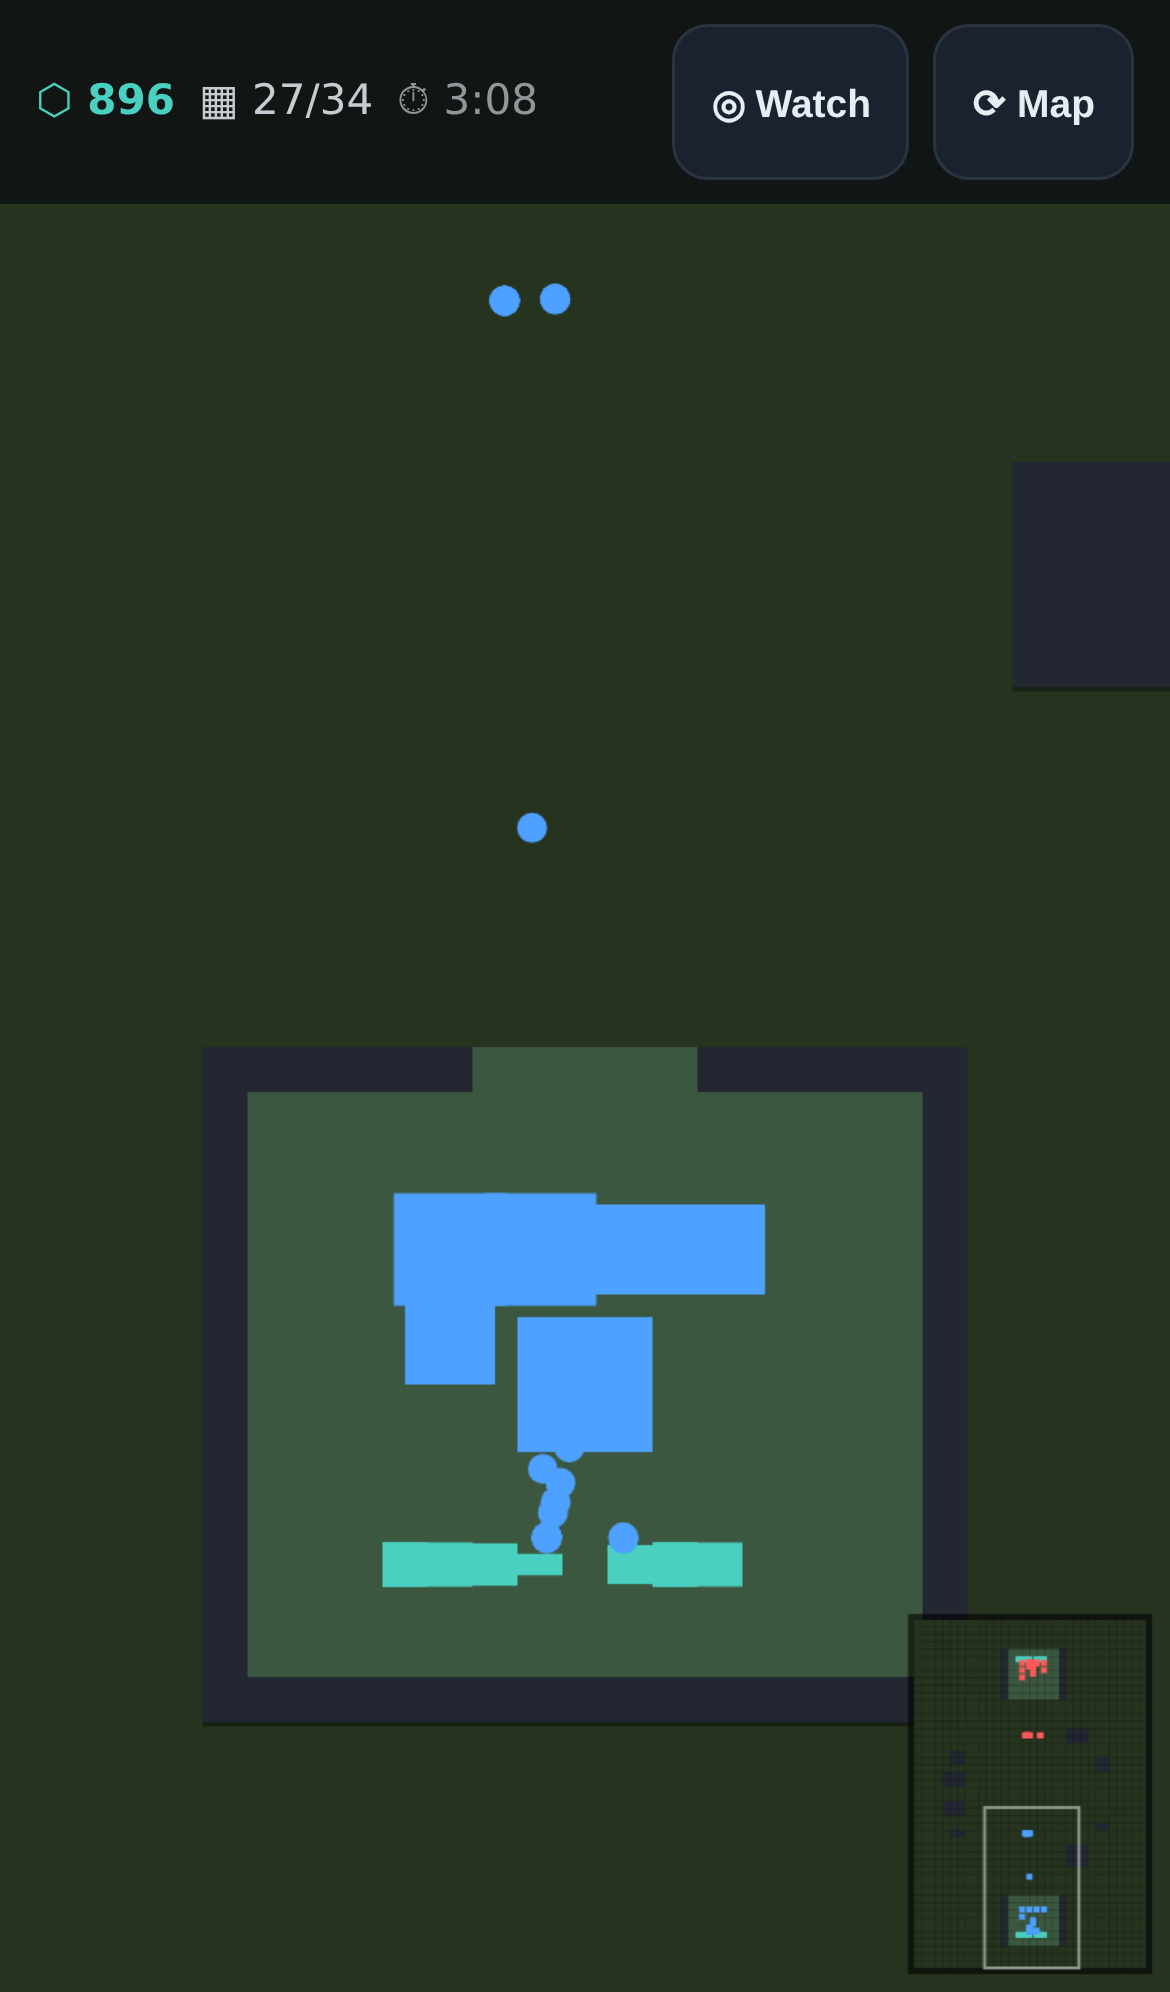
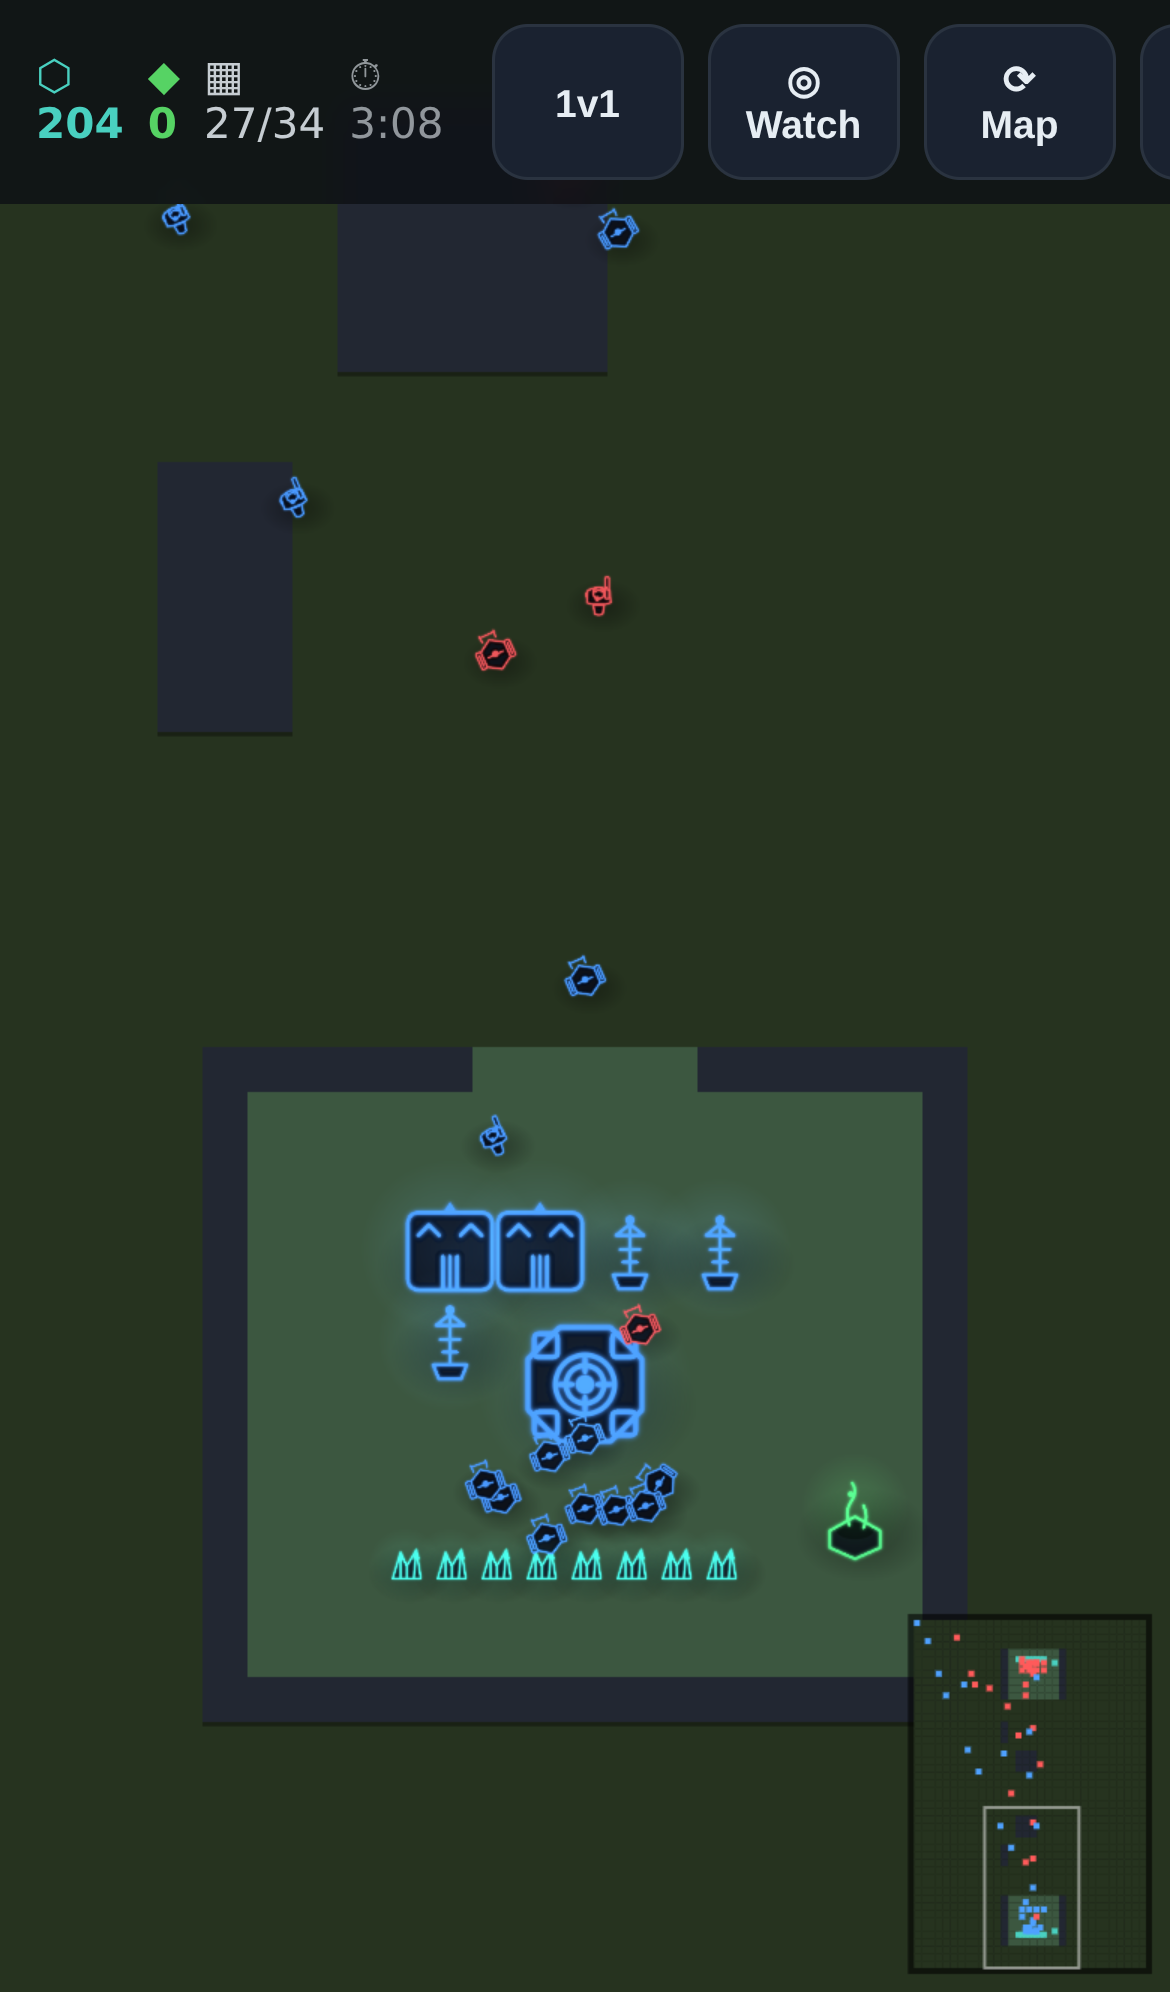
art: ship the tron sprite treatment in-engine (Terran roster)
Rewrite src/art/sprites.ts so the live WebGL renderer draws the neon "tron"
look from the codex instead of the old flat-with-baked-volume style. Each
sprite is now declared as role layers (panels / insets / lines / cores) and the
atlas body+mask SVG is generated from them:

  • body  — near-black chassis (fixed, never tinted) + neon edges/cores drawn in
            a neutral-bright color, with the bloom baked via an SVG blur so the
            edge glows in-engine.
  • mask  — white over the neon (edges + bloom + cores); chassis transparent, so
            it reads black for every player and the team color multiplies only
            the glow (assets.md §4).

Neutral minerals/geyser carry a fixed hue and no mask (never tinted). Sprite
scales/keys are preserved, so gl/renderer.ts' SPRITE_OF and footprint math are
unchanged. The full three-race roster stays checked in as the showcase
(packages/app/units.html); the engine bakes the Terran subset it has Kinds for,
and Protoss/Zerg port in when their Kinds land.

Verified: typecheck + app build pass; in-engine Playwright shots show the
team-tinted neon CC/Barracks/Depots, hex SCVs, Marines, cyan minerals and green
geyser. Refreshed the README screenshots and assets.md to match.

https://claude.ai/code/session_01H7uHsf3zaSRFHF14MfB3ev

diff --git a/packages/app/src/art/sprites.ts b/packages/app/src/art/sprites.ts
@@ -1,200 +1,173 @@
 // Self-drawn SVG sprite art (100% in-house → CC0-clean for the Pages deploy, per
-// docs/specs/assets.md §1). Flat top-down with baked volume: a consistent
-// top-left light gives each sprite a highlight (upper-left) and a darker
-// lower-right, plus a crisp dark outline so it reads on a small phone screen.
+// docs/specs/assets.md §1), in a neon "tron" treatment: a near-black chassis with
+// glowing, team-colored edges and a bright power core. The full three-race showcase
+// (Terran/Protoss/Zerg, canonical to docs/specs/sc1-spec.md) lives in
+// packages/app/units.html; the engine currently has Terran kinds only, so the Terran
+// subset is what bakes into the atlas here. Protoss/Zerg art is ready in the showcase
+// and ports in the moment their Kinds land in the sim.
 //
-// Each sprite has two layers that feed the texture atlas (gl/atlas.ts):
-//   • `body` — full-color art. Team-colorable regions use a near-neutral grey
-//     gradient so a fragment-shader multiply by the player color yields a vivid,
-//     still-shaded team tint. Non-team detail (guns, glass, vents) keeps its own
-//     color and is punched out of the mask.
-//   • `mask` — the team silhouette in white with detail shapes in black.
-// Sprites without a `mask` (minerals, geyser) are never team-tinted.
+// Pipeline (gl/atlas.ts): each sprite rasterizes two layers that share one UV cell:
+//   • `body` — full-color art. The dark chassis is a fixed near-black (never tinted).
+//     The neon edges/cores are drawn in a neutral bright color so the fragment-shader
+//     multiply by the player color (assets.md §4) yields a vivid, still-glowing team
+//     tint. A baked SVG blur under the strokes makes the neon edge bloom in-engine.
+//   • `mask` — the team region (the neon edges + their bloom + cores) in white; the
+//     chassis stays transparent so it reads black for every player.
+// Neutral sprites (minerals, geyser) carry a fixed hue and no mask, so they're never
+// team-tinted.
 //
-// Authored in a 64×64 viewBox, centered, "facing" up (−y) so units can rotate
-// toward their move target. Gradient ids are local to each rasterized SVG.
+// Authored in a 64×64 viewBox, centered, "facing" up (−y) so units rotate toward a
+// move target. Each sprite is described by role layers (see Tron) and the body/mask
+// SVG is generated from them, so a sprite is data, not duplicated markup.
+
+const DARK = '#0d1119'; // chassis fill — lifted just off black so silhouettes read on dark terrain
+const DARK2 = '#06080d'; // recessed insets (bay doors, vents, maws)
+const NEON = '#eef3ff'; // neutral-bright edge → fragment-shader multiply by team color stays a clean tint
+// One soft blur, reused per rasterized SVG (filter id is local to each doc). A roomy
+// filter region keeps the bloom from clipping; geometry is inset enough to stay in 64².
+const GLOW = '<filter id="g" x="-40%" y="-40%" width="180%" height="180%"><feGaussianBlur stdDeviation="1.15"/></filter>';
+const EJOIN = 'stroke-linejoin="round" stroke-linecap="round"';
+
+// A sprite as role layers; body/mask are generated from these (see below).
+type Tron = {
+  sw: number; // neon stroke width
+  panels?: string; // plates: dark fill + neon outline (the chassis)
+  insets?: string; // recessed dark fills only, no neon (doors, vents, maws)
+  lines?: string; // pure neon detail strokes (fill:none)
+  cores?: string; // filled neon nodes — the glowing power core
+  scale?: number; // world-size multiplier vs. the unit's interaction radius (default 1)
+  color?: string; // fixed hue for NEUTRAL sprites (no team mask); omit → team-tinted
+};
+
+// glow underlay + crisp pass for stroked geometry (panels' outlines + detail lines).
+const strokeLayers = (geom: string, sw: number, color: string): string =>
+  `<g color="${color}" fill="none" stroke="currentColor" stroke-width="${sw}" ${EJOIN} filter="url(#g)">${geom}</g>` +
+  `<g color="${color}" fill="none" stroke="currentColor" stroke-width="${sw}" ${EJOIN}>${geom}</g>`;
+// glow underlay + crisp pass for filled geometry (cores, bright facets).
+const fillLayers = (geom: string, color: string): string =>
+  `<g color="${color}" fill="currentColor" stroke="none" filter="url(#g)">${geom}</g>` +
+  `<g color="${color}" fill="currentColor" stroke="none">${geom}</g>`;
+
+const bodyOf = (t: Tron): string => {
+  const c = t.color ?? NEON;
+  const stroked = (t.panels ?? '') + (t.lines ?? '');
+  return (
+    `<defs>${GLOW}</defs>` +
+    (t.panels ? `<g fill="${DARK}" stroke="none">${t.panels}</g>` : '') +
+    (t.insets ? `<g fill="${DARK2}" stroke="none">${t.insets}</g>` : '') +
+    strokeLayers(stroked, t.sw, c) +
+    (t.cores ? fillLayers(t.cores, c) : '')
+  );
+};
+// Team mask: white over the neon (edges + bloom + cores); chassis stays transparent
+// (→ black for every player). Omitted for neutral sprites so they're never tinted.
+const maskOf = (t: Tron): string | undefined => {
+  if (t.color) return undefined;
+  const stroked = (t.panels ?? '') + (t.lines ?? '');
+  return `<defs>${GLOW}</defs>` + strokeLayers(stroked, t.sw, '#fff') + (t.cores ? fillLayers(t.cores, '#fff') : '');
+};
 
 export type SpriteDef = {
   body: string; // inner SVG markup, full color
-  mask?: string; // inner SVG markup, team region white / details black
+  mask?: string; // inner SVG markup, team region white / chassis transparent
   scale?: number; // world-size multiplier vs. the unit's interaction radius (default 1)
 };
 
-const EDGE = '#0b0e13'; // outline
-const STEEL = '#262b33'; // dark metal detail
-const STEEL2 = '#3a414b';
-const WARN = '#ffb43d';
+const sprite = (t: Tron): SpriteDef => {
+  const m = maskOf(t);
+  return { body: bodyOf(t), ...(m ? { mask: m } : {}), scale: t.scale ?? 1 };
+};
 
-// Team gradient: neutral greys (no hue) so the in-shader multiply stays a clean
-// team color, light at top-left → darker at bottom-right (matches the lighting).
-const tg = (id = 't'): string =>
-  `<linearGradient id="${id}" x1="0.1" y1="0.05" x2="0.9" y2="1">` +
-  `<stop offset="0" stop-color="#f4f6f9"/><stop offset="0.55" stop-color="#dfe3e8"/>` +
-  `<stop offset="1" stop-color="#bcc2ca"/></linearGradient>`;
-// Glass/visor (cool blue) and a warm light (landing pad / glow).
-const glass = (id = 'v'): string =>
-  `<radialGradient id="${id}" cx="0.35" cy="0.3" r="0.8">` +
-  `<stop offset="0" stop-color="#cdeeff"/><stop offset="1" stop-color="#2f6f9e"/></radialGradient>`;
-const warm = (id = 'w'): string =>
-  `<radialGradient id="${id}" cx="0.4" cy="0.35" r="0.75">` +
-  `<stop offset="0" stop-color="#ffe49a"/><stop offset="1" stop-color="#ef9d1c"/></radialGradient>`;
-// A soft top-left highlight reused across sprites.
-const HI = '#ffffff';
-
-export const SPRITES: Record<string, SpriteDef> = {
-  // --- SCV: top-down builder; tread strips, cab + window, drill/claw facing up. ---
+// ---- Terran roster + neutral resources (the engine's current Kinds). ----
+const TRON: Record<string, Tron> = {
+  // SCV: hex hauler, side treads, forward claw, central core.
   scv: {
-    scale: 1.7,
-    body: `<defs>${tg()}${glass()}</defs>
-      <rect x="12" y="17" width="7" height="30" rx="3" fill="${STEEL}"/>
-      <rect x="45" y="17" width="7" height="30" rx="3" fill="${STEEL}"/>
-      <rect x="14" y="21" width="3" height="22" rx="1.5" fill="${STEEL2}"/>
-      <rect x="47" y="21" width="3" height="22" rx="1.5" fill="${STEEL2}"/>
-      <rect x="20" y="7" width="24" height="11" rx="3" fill="${WARN}" stroke="${EDGE}" stroke-width="1.5"/>
-      <rect x="25" y="4" width="4" height="6" rx="1" fill="#cf8a1f"/>
-      <rect x="35" y="4" width="4" height="6" rx="1" fill="#cf8a1f"/>
-      <rect x="16" y="14" width="32" height="37" rx="7" fill="url(#t)" stroke="${EDGE}" stroke-width="2"/>
-      <rect x="22" y="24" width="20" height="17" rx="3" fill="${STEEL}"/>
-      <rect x="24" y="26" width="16" height="11" rx="2" fill="url(#v)"/>
-      <rect x="18" y="16" width="22" height="4" rx="2" fill="${HI}" opacity="0.22"/>`,
-    mask: `
-      <rect x="12" y="17" width="7" height="30" rx="3" fill="#000"/>
-      <rect x="45" y="17" width="7" height="30" rx="3" fill="#000"/>
-      <rect x="20" y="7" width="24" height="11" rx="3" fill="#000"/>
-      <rect x="16" y="14" width="32" height="37" rx="7" fill="#fff"/>
-      <rect x="22" y="24" width="20" height="17" rx="3" fill="#000"/>`,
+    sw: 2, scale: 1.7,
+    panels:
+      `<rect x="9" y="22" width="7" height="22" rx="2"/><rect x="48" y="22" width="7" height="22" rx="2"/>` +
+      `<polygon points="32,13 48,23 48,43 32,53 16,43 16,23"/>`,
+    lines:
+      `<line x1="12.5" y1="26" x2="12.5" y2="40"/><line x1="51.5" y1="26" x2="51.5" y2="40"/>` +
+      `<line x1="23" y1="13" x2="22" y2="4"/><line x1="41" y1="13" x2="42" y2="4"/><line x1="22" y1="6" x2="42" y2="6"/>` +
+      `<line x1="22" y1="33" x2="42" y2="33"/>`,
+    cores: `<circle cx="32" cy="32" r="4"/>`,
   },
-
-  // --- Marine: torso + shoulder pauldrons (team), helmet/visor, rifle, backpack. ---
+  // Marine: CMC power armor (top-down) — swept shoulder plate, helmet+visor, gauss rifle.
   marine: {
-    scale: 1.7,
-    body: `<defs>${tg()}${glass()}</defs>
-      <rect x="27" y="41" width="10" height="12" rx="3" fill="${STEEL}"/>
-      <rect x="33" y="7" width="5" height="23" rx="2" fill="${STEEL2}" stroke="${EDGE}" stroke-width="1"/>
-      <rect x="31" y="24" width="10" height="9" rx="2" fill="${STEEL}"/>
-      <circle cx="20" cy="35" r="8" fill="url(#t)" stroke="${EDGE}" stroke-width="2"/>
-      <circle cx="44" cy="35" r="8" fill="url(#t)" stroke="${EDGE}" stroke-width="2"/>
-      <rect x="22" y="26" width="20" height="25" rx="9" fill="url(#t)" stroke="${EDGE}" stroke-width="2"/>
-      <circle cx="32" cy="26" r="9" fill="${STEEL}" stroke="${EDGE}" stroke-width="1.5"/>
-      <path d="M25 27 a7 7 0 0 1 14 0 z" fill="url(#v)"/>
-      <circle cx="28" cy="23" r="2.4" fill="${HI}" opacity="0.5"/>`,
-    mask: `
-      <circle cx="20" cy="35" r="8" fill="#fff"/>
-      <circle cx="44" cy="35" r="8" fill="#fff"/>
-      <rect x="22" y="26" width="20" height="25" rx="9" fill="#fff"/>
-      <rect x="27" y="41" width="10" height="12" rx="3" fill="#000"/>
-      <circle cx="32" cy="26" r="9" fill="#000"/>
-      <rect x="33" y="7" width="5" height="23" rx="2" fill="#000"/>
-      <rect x="31" y="24" width="10" height="9" rx="2" fill="#000"/>`,
+    sw: 2, scale: 1.7,
+    panels:
+      `<path d="M25 41 L39 41 L37 53 Q32 56 27 53 Z"/>` +
+      `<path d="M18 24 Q32 16 46 24 L47 39 Q32 45 17 39 Z"/>` +
+      `<circle cx="32" cy="27" r="7"/>` +
+      `<rect x="40" y="7" width="5" height="27" rx="1.5"/>`,
+    lines: `<path d="M17 33 Q14 26 21 22"/><path d="M27 26 Q32 21 37 26"/><line x1="35" y1="23" x2="42" y2="20"/>`,
+    cores: `<circle cx="30" cy="34" r="3"/>`,
   },
-
-  // --- Command Center: large hub, central landing pad, corner modules. ---
+  // Command Center: cut-corner fortress, corner bastions, central landing ring.
   commandCenter: {
-    scale: 1.0,
-    body: `<defs>${tg()}${warm()}</defs>
-      <rect x="5" y="5" width="54" height="54" rx="13" fill="url(#t)" stroke="${EDGE}" stroke-width="3"/>
-      <rect x="11" y="11" width="42" height="42" rx="9" fill="none" stroke="${EDGE}" stroke-width="1" opacity="0.22"/>
-      <rect x="8" y="8" width="12" height="12" rx="3" fill="${STEEL}"/>
-      <rect x="44" y="8" width="12" height="12" rx="3" fill="${STEEL}"/>
-      <rect x="8" y="44" width="12" height="12" rx="3" fill="${STEEL}"/>
-      <rect x="44" y="44" width="12" height="12" rx="3" fill="${STEEL}"/>
-      <circle cx="32" cy="32" r="16" fill="${STEEL}" stroke="${EDGE}" stroke-width="2"/>
-      <circle cx="32" cy="32" r="9" fill="url(#w)"/>
-      <path d="M9 16 a8 8 0 0 1 7 -7" fill="none" stroke="${HI}" stroke-width="3" opacity="0.25" stroke-linecap="round"/>`,
-    mask: `
-      <rect x="5" y="5" width="54" height="54" rx="13" fill="#fff"/>
-      <rect x="8" y="8" width="12" height="12" rx="3" fill="#000"/>
-      <rect x="44" y="8" width="12" height="12" rx="3" fill="#000"/>
-      <rect x="8" y="44" width="12" height="12" rx="3" fill="#000"/>
-      <rect x="44" y="44" width="12" height="12" rx="3" fill="#000"/>
-      <circle cx="32" cy="32" r="16" fill="#000"/>`,
+    sw: 2.4, scale: 1.0,
+    panels:
+      `<polygon points="20,5 44,5 59,20 59,44 44,59 20,59 5,44 5,20"/>` +
+      `<rect x="8" y="8" width="11" height="11" rx="2"/><rect x="45" y="8" width="11" height="11" rx="2"/>` +
+      `<rect x="8" y="45" width="11" height="11" rx="2"/><rect x="45" y="45" width="11" height="11" rx="2"/>` +
+      `<circle cx="32" cy="32" r="14"/>`,
+    lines:
+      `<circle cx="32" cy="32" r="9"/>` +
+      `<line x1="32" y1="20" x2="32" y2="26"/><line x1="32" y1="38" x2="32" y2="44"/>` +
+      `<line x1="20" y1="32" x2="26" y2="32"/><line x1="38" y1="32" x2="44" y2="32"/>`,
+    cores: `<circle cx="32" cy="32" r="4.5"/>`,
   },
-
-  // --- Supply Depot: low slab, hazard stripe, status lights. ---
+  // Supply Depot: antenna pylon — base, mast, cross arms, top light.
   supplyDepot: {
-    scale: 1.0,
-    body: `<defs>${tg()}</defs>
-      <rect x="8" y="14" width="48" height="36" rx="10" fill="url(#t)" stroke="${EDGE}" stroke-width="3"/>
-      <rect x="15" y="20" width="34" height="7" rx="3" fill="${WARN}"/>
-      <rect x="15" y="31" width="34" height="8" rx="3" fill="${STEEL}"/>
-      <circle cx="19" cy="35" r="2.2" fill="#5aff7a"/>
-      <circle cx="26" cy="35" r="2.2" fill="#5aff7a"/>
-      <rect x="14" y="16" width="26" height="3.5" rx="1.5" fill="${HI}" opacity="0.2"/>`,
-    mask: `
-      <rect x="8" y="14" width="48" height="36" rx="10" fill="#fff"/>
-      <rect x="15" y="20" width="34" height="7" rx="3" fill="#000"/>
-      <rect x="15" y="31" width="34" height="8" rx="3" fill="#000"/>`,
+    sw: 2.2, scale: 1.0,
+    panels: `<polygon points="20,50 44,50 40,60 24,60"/>`,
+    lines:
+      `<line x1="32" y1="50" x2="32" y2="13"/>` +
+      `<line x1="22" y1="22" x2="42" y2="22"/><line x1="25" y1="32" x2="39" y2="32"/><line x1="27" y1="41" x2="37" y2="41"/>` +
+      `<line x1="22" y1="22" x2="32" y2="14"/><line x1="42" y1="22" x2="32" y2="14"/>`,
+    cores: `<circle cx="32" cy="11" r="3.2"/>`,
   },
-
-  // --- Barracks: production block, bay door, roof vents, beacon. ---
+  // Barracks: production block, bay door with slats, roof vent chevrons, beacon.
   barracks: {
-    scale: 1.0,
-    body: `<defs>${tg()}</defs>
-      <rect x="7" y="9" width="50" height="46" rx="8" fill="url(#t)" stroke="${EDGE}" stroke-width="3"/>
-      <rect x="13" y="15" width="14" height="9" rx="2" fill="${STEEL}"/>
-      <rect x="37" y="15" width="14" height="9" rx="2" fill="${STEEL}"/>
-      <rect x="15" y="17" width="10" height="2" rx="1" fill="${STEEL2}"/>
-      <rect x="39" y="17" width="10" height="2" rx="1" fill="${STEEL2}"/>
-      <rect x="23" y="34" width="18" height="21" rx="2" fill="${STEEL}"/>
-      <rect x="26" y="38" width="12" height="17" rx="1" fill="${STEEL2}"/>
-      <rect x="28" y="11" width="8" height="7" rx="2" fill="#ff5a4d"/>
-      <rect x="12" y="11" width="26" height="3.5" rx="1.5" fill="${HI}" opacity="0.2"/>`,
-    mask: `
-      <rect x="7" y="9" width="50" height="46" rx="8" fill="#fff"/>
-      <rect x="13" y="15" width="14" height="9" rx="2" fill="#000"/>
-      <rect x="37" y="15" width="14" height="9" rx="2" fill="#000"/>
-      <rect x="23" y="34" width="18" height="21" rx="2" fill="#000"/>`,
+    sw: 2.2, scale: 1.0,
+    panels: `<rect x="8" y="11" width="48" height="44" rx="6"/>`,
+    insets: `<rect x="24" y="33" width="16" height="22" rx="2"/>`,
+    lines:
+      `<polyline points="14,24 20,18 26,24"/><polyline points="38,24 44,18 50,24"/>` +
+      `<line x1="28" y1="36" x2="28" y2="55"/><line x1="32" y1="36" x2="32" y2="55"/><line x1="36" y1="36" x2="36" y2="55"/>`,
+    cores: `<polygon points="32,5 36,11 28,11"/>`,
   },
-
-  // --- Refinery: structure over a geyser, twin gas tanks + pipes. ---
+  // Refinery: structure over a geyser, twin gas tanks + central riser (gas glow added by the renderer).
   refinery: {
-    scale: 1.0,
-    body: `<defs>${tg()}<radialGradient id="g" cx="0.4" cy="0.35" r="0.8">
-        <stop offset="0" stop-color="#76e89a"/><stop offset="1" stop-color="#2c8a48"/></radialGradient></defs>
-      <rect x="8" y="15" width="48" height="35" rx="10" fill="url(#t)" stroke="${EDGE}" stroke-width="3"/>
-      <rect x="29" y="17" width="6" height="16" rx="2" fill="${STEEL}"/>
-      <circle cx="21" cy="33" r="9" fill="url(#g)" stroke="${EDGE}" stroke-width="2"/>
-      <circle cx="43" cy="33" r="9" fill="url(#g)" stroke="${EDGE}" stroke-width="2"/>
-      <circle cx="21" cy="33" r="3" fill="#0c3b22"/>
-      <circle cx="43" cy="33" r="3" fill="#0c3b22"/>
-      <rect x="14" y="17" width="22" height="3.5" rx="1.5" fill="${HI}" opacity="0.2"/>`,
-    mask: `
-      <rect x="8" y="15" width="48" height="35" rx="10" fill="#fff"/>
-      <circle cx="21" cy="33" r="9" fill="#000"/>
-      <circle cx="43" cy="33" r="9" fill="#000"/>
-      <rect x="29" y="17" width="6" height="16" rx="2" fill="#000"/>`,
+    sw: 2.2, scale: 1.0,
+    panels:
+      `<rect x="8" y="15" width="48" height="35" rx="10"/>` +
+      `<circle cx="21" cy="33" r="9"/><circle cx="43" cy="33" r="9"/>` +
+      `<rect x="29" y="17" width="6" height="16" rx="2"/>`,
+    insets: `<circle cx="21" cy="33" r="3.4"/><circle cx="43" cy="33" r="3.4"/>`,
+    lines: `<line x1="15" y1="20" x2="33" y2="20"/>`,
+    cores: `<circle cx="32" cy="42" r="2.4"/>`,
   },
-
-  // --- Mineral field: faceted cyan crystals (neutral, never tinted). ---
+  // Mineral field: faceted cyan crystals (neutral, never tinted).
   mineral: {
-    scale: 1.25,
-    body: `<defs>
-        <linearGradient id="c" x1="0" y1="0" x2="0.4" y2="1">
-          <stop offset="0" stop-color="#9ff7ec"/><stop offset="1" stop-color="#19a9a0"/></linearGradient>
-        <linearGradient id="c2" x1="0" y1="0" x2="0.4" y2="1">
-          <stop offset="0" stop-color="#cafdf6"/><stop offset="1" stop-color="#36cabe"/></linearGradient></defs>
-      <polygon points="17,47 28,15 35,33 46,13 51,47" fill="url(#c)" stroke="#063b37" stroke-width="2" stroke-linejoin="round"/>
-      <polygon points="23,47 30,23 38,47" fill="url(#c2)"/>
-      <polygon points="40,47 46,21 52,47" fill="url(#c2)"/>
-      <polygon points="28,15 31,24 25,25" fill="#dffdf8"/>
-      <polygon points="46,13 49,24 42,24" fill="#dffdf8" opacity="0.9"/>`,
+    sw: 2, scale: 1.25, color: '#46f0e0',
+    panels: `<polygon points="18,48 27,18 34,34 45,15 50,48"/>`,
+    lines: `<line x1="27" y1="18" x2="27" y2="48"/><line x1="45" y1="15" x2="42" y2="48"/><line x1="34" y1="34" x2="34" y2="48"/>`,
+    cores: `<polygon points="27,18 31,27 24,28"/><polygon points="45,15 49,26 41,26"/>`,
   },
-
-  // --- Vespene geyser: dark vent with rising green gas (neutral). ---
+  // Vespene geyser: dark vent with rising green gas (neutral).
   geyser: {
-    scale: 1.0,
-    body: `<defs>
-        <radialGradient id="r" cx="0.5" cy="0.45" r="0.6">
-          <stop offset="0" stop-color="#1c2a18"/><stop offset="1" stop-color="#2c3a2a"/></radialGradient>
-        <radialGradient id="gg" cx="0.5" cy="0.5" r="0.5">
-          <stop offset="0" stop-color="#7dff8e"/><stop offset="1" stop-color="#2f9a46"/></radialGradient></defs>
-      <ellipse cx="32" cy="45" rx="25" ry="14" fill="url(#r)" stroke="${EDGE}" stroke-width="2"/>
-      <ellipse cx="32" cy="43" rx="13" ry="8" fill="#0e1a0c"/>
-      <circle cx="30" cy="31" r="8" fill="url(#gg)" opacity="0.9"/>
-      <circle cx="39" cy="22" r="5.5" fill="url(#gg)" opacity="0.7"/>
-      <circle cx="33" cy="14" r="3.5" fill="url(#gg)" opacity="0.5"/>`,
+    sw: 2, scale: 1.0, color: '#54f08a',
+    panels: `<polygon points="32,30 50,40 50,52 32,60 14,52 14,40"/>`,
+    insets: `<ellipse cx="32" cy="40" rx="13" ry="6"/>`,
+    lines: `<path d="M28 36 Q24 26 30 18 Q34 12 30 6"/><path d="M38 38 Q42 30 38 22"/>`,
+    cores: `<circle cx="29" cy="14" r="2"/>`,
   },
 };
+
+export const SPRITES: Record<string, SpriteDef> = Object.fromEntries(
+  Object.entries(TRON).map(([k, t]) => [k, sprite(t)]),
+);
 
 /** Wrap inner markup into a standalone, sized SVG document for rasterization. */
 export const svgDoc = (inner: string): string =>

diff --git a/docs/specs/assets.md b/docs/specs/assets.md
@@ -8,14 +8,17 @@
 > a tiny regl-like core (`src/gl/gl.ts`) drives two instanced sprite passes — a normal-blend
 > batch (ground shadows, every unit/building/resource body, HP bars, selection rings, rally
 > markers) and an **additive** batch (ambient building/resource lights + combat particles). Self-
-> drawn SVG sprites (`src/art/sprites.ts`, flat-with-baked-volume, consistent top-left lighting)
-> bake into a runtime color+mask texture atlas (`src/gl/atlas.ts`) at startup; team color is a
+> drawn SVG sprites (`src/art/sprites.ts`, a neon **"tron" treatment** — a near-black chassis with
+> glowing, team-colored edges and a bright power core, the bloom baked in via an SVG blur) bake
+> into a runtime color+mask texture atlas (`src/gl/atlas.ts`) at startup; team color is a
 > fragment-shader multiply through the mask channel (§4); fog is a soft, linear-filtered texture
 > quad. A CPU particle pool (`src/gl/particles.ts`) spawns muzzle flashes and death explosions by
 > diffing observable state frame-to-frame (cosmetic only — never the sim). Units rotate to face
 > their move target. Canvas2D (`src/render2d.ts`) remains the fallback and the source of the
-> 2D-overlay chrome (minimap, drag box). Next: re-bake per zoom bucket (§3.3), multi-frame sprite
-> animation, and richer effects (impact sparks, smoke) on the same instanced substrate.
+> 2D-overlay chrome (minimap, drag box). The full three-race sprite roster (Terran/Protoss/Zerg,
+> canonical to [sc1-spec.md](./sc1-spec.md)) is showcased in `packages/app/units.html`; the engine
+> bakes the Terran subset it currently has Kinds for. Next: re-bake per zoom bucket (§3.3),
+> multi-frame sprite animation, and richer effects (impact sparks, smoke) on the same substrate.
 
 ## 1. Hard rule: only CC0 or self-made ships
 